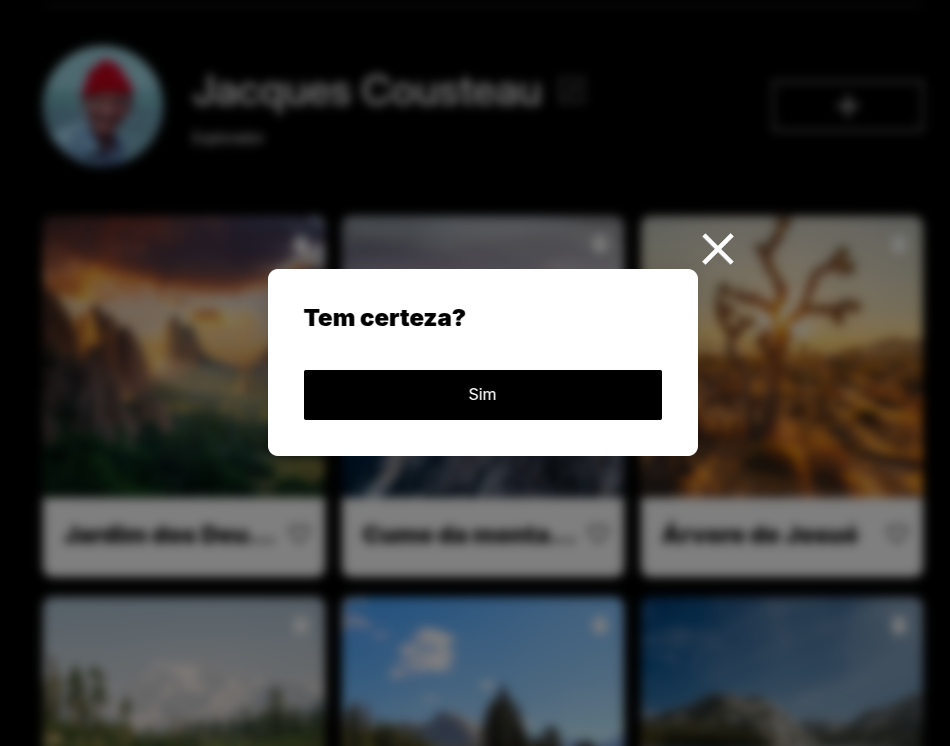
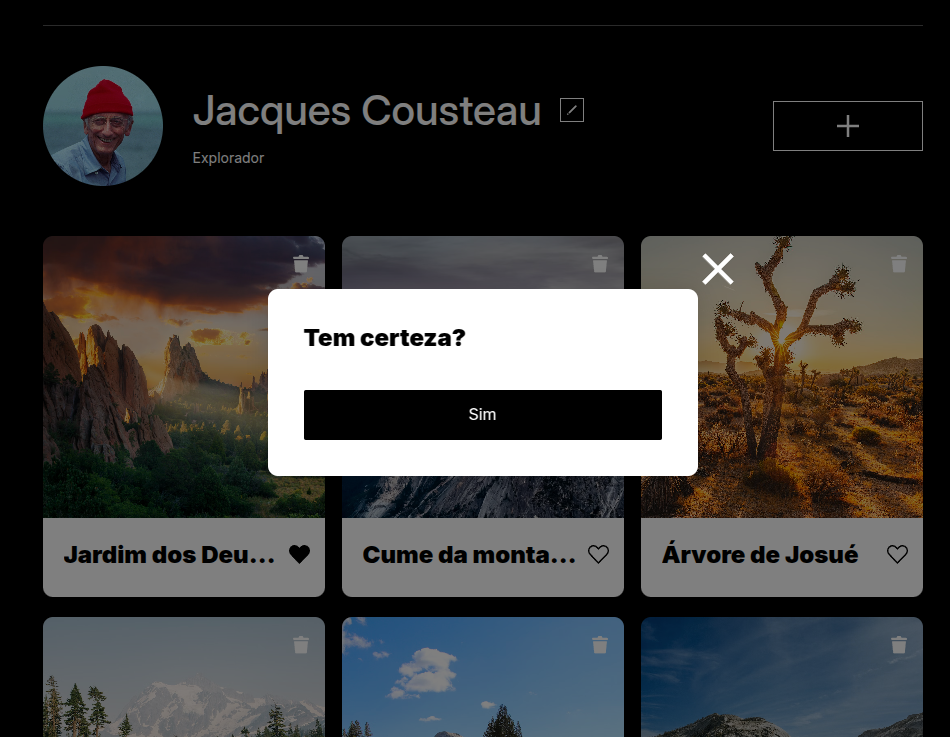
docs: edit README

diff --git a/blocks/profile.css b/blocks/profile.css
@@ -24,7 +24,7 @@
 }
 
 .profile__avatar-button:hover {
-  background: url("../images/vector.png") no-repeat center;
+  background: url("../images/edit_avatar.png") no-repeat center;
   background-size: 26px;
   background-color: rgba(0, 0, 0, 0.65);
   cursor: pointer;

diff --git a/blocks/popup.css b/blocks/popup.css
@@ -4,7 +4,6 @@
   opacity: 0;
   position: fixed;
   background-color: #00000080;
-  backdrop-filter: blur(5px);
   width: 100vw;
   height: 100vh;
   z-index: 1;
